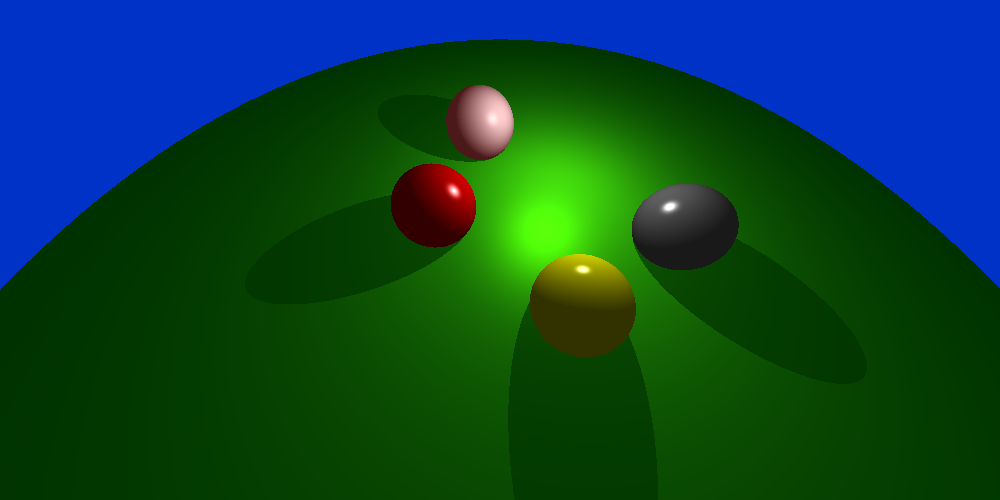
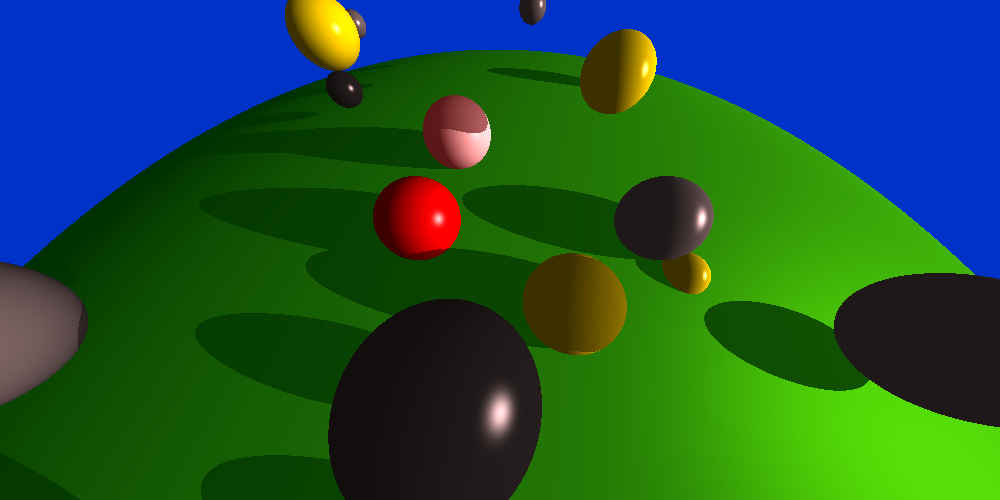
Added point light gizmo Random spheres generator Lights got to be constructed in main.cpp since now

diff --git a/IK_Raytracer/IK_Raytracer/IK_Raytracer.cpp b/IK_Raytracer/IK_Raytracer/IK_Raytracer.cpp
@@ -27,7 +27,8 @@ int main()
 
     // Camera and rays settings
     float fov = 90.0f;
-    Camera* cam = new Camera(vec3(3, 10, -5), vec3(0, 0, -1), vec3(0, -1, 0), fov, float(scrWidth)/float(scrHeight));
+    vec3 lookAtPoint(0, -1, 0);
+    Camera* cam = new Camera(vec3(3, 10, -5), lookAtPoint, vec3(0, -1, 0), fov, float(scrWidth)/float(scrHeight));
 
     float pixelWidth = 2.0f / float(scrWidth);
     float pixelHeight = 2.0f / float(scrHeight);
@@ -39,14 +40,28 @@ int main()
     std::cin >> isAntyalia;
 
     // Material prefabs
-    Material* blackMat = new Material(vec3(6, 6, 6), vec3(20, 20, 20), vec3(255, 255, 255), 32);
-    Material* grassMat = new Material(vec3(0, 20, 0), vec3(100, 255, 20), vec3(40, 100, 0), 8);
-    Material* goldMat = new Material(vec3(20, 20, 0), vec3(255, 255, 0), vec3(255, 255, 255), 64);
-    Material* redMat = new Material(vec3(20, 0, 0), vec3(255, 0, 0), vec3(255, 255, 255), 32);
-    Material* silverMat = new Material(vec3(10, 10, 10), vec3(100, 100, 100), vec3(255, 255, 255), 32);
-    Material* whiteMat = new Material(vec3(30, 10, 10), vec3(255, 255, 255), vec3(50, 50, 50), 16);
-    Material* transMat = new Material(vec3(255, 255, 255), vec3(255, 255, 255), vec3(255, 255, 255), 1, true);
+    std::vector<Material*> materials;
 
+    Material* blackMat = new Material(vec3(6, 6, 6), vec3(20, 20, 20), vec3(255, 255, 255), 32);
+    materials.push_back(blackMat);
+
+    Material* grassMat = new Material(vec3(0, 20, 0), vec3(100, 255, 20), vec3(40, 100, 0), 8);
+    materials.push_back(grassMat);
+
+    Material* goldMat = new Material(vec3(20, 20, 0), vec3(255, 255, 0), vec3(255, 255, 255), 64);
+    materials.push_back(goldMat);
+
+    Material* redMat = new Material(vec3(20, 0, 0), vec3(255, 0, 0), vec3(255, 255, 255), 32);
+    materials.push_back(redMat);
+
+    Material* silverMat = new Material(vec3(10, 10, 10), vec3(100, 100, 100), vec3(255, 255, 255), 32);
+    materials.push_back(silverMat);
+
+    Material* whiteMat = new Material(vec3(30, 10, 10), vec3(255, 255, 255), vec3(50, 50, 50), 16);
+    materials.push_back(whiteMat);
+
+    Material* transMat = new Material(vec3(255, 255, 255), vec3(255, 255, 255), vec3(255, 255, 255), 1, true);
+    //materials.push_back(transMat);
 
     // Vector of hitable objects
     std::vector<Hitable*> hitables;
@@ -56,7 +71,7 @@ int main()
     std::vector<vec3> vertices, indices;
 
     //// Assigning vertices and indices;
-    parser.ParseFile("coneBlend2.obj", vertices, indices);
+    //parser.ParseFile("coneBlend2.obj", vertices, indices);
 
     //// Mesh made from parsed obj file
 
@@ -88,6 +103,31 @@ int main()
     Hitable* sphere4 = new Sphere(vec3(6, 0, 5), 2, silverMat);
     hitables.push_back(sphere4);
 
+
+    int size = 3;
+    float maxF = 20;
+    float minF = -20;
+    // random spheres generator
+    for (int i = -size; i < size; i++)
+    {
+        for (int j = -size; j < size; j++)
+        {
+            float step = ((float(rand()) / float(RAND_MAX)) *            (maxF - minF)) + minF;
+            float step2 = ((float(rand()) / float(RAND_MAX)) *           (maxF - minF)) + minF;
+            float step3 = ((float(rand()) / float(RAND_MAX)) *           (maxF - minF)) + minF;
+            float randomPosition = ((float(rand()) / float(RAND_MAX)) *  (maxF - minF)) + minF;
+            float randomPosition2 = ((float(rand()) / float(RAND_MAX)) * (maxF - minF)) + minF;
+            float randomPosition3 = ((float(rand()) / float(RAND_MAX)) * (maxF - minF)) + minF;
+
+            float randomRadius = 1 + static_cast <float> (rand()) / (static_cast <float> (RAND_MAX / (2 - 1)));
+            int randomMat = rand() % materials.size();
+            hitables.push_back(new Sphere(vec3((step + randomPosition),
+                                               (step2 + randomPosition2),
+                                               (step3 + randomPosition3)),
+                                                randomRadius, materials.at(randomMat)));
+        }
+    }
+
     std::cout << hitables.size() << std::endl;
 
     //Hitable* plane = new Plane(vec3(0, 5, 0), vec3(5, 0, 0), vec3(0, 5, 0), new Material(vec3(0, 0, 0), vec3(0.1, 154, 23), vec3(255, 255, 255), 256));
@@ -99,9 +139,15 @@ int main()
     std::vector<PointLight> pointLights;
     std::vector<DirectionalLight> directionalLights;
 
-    pointLights.push_back(PointLight(vec3(1.0, 1.0, 1.0), vec3(1.0, 1.0, 1.0), vec3(0, 5, 5), 0.5f, 20.0f, 2.0f, 100.0f, &hitables));
-    pointLights.push_back(PointLight(vec3(1.0, 1.0, 1.0), vec3(1.0, 1.0, 1.0), vec3(0, 1, 5), 0.5f, 20.0f, 2.0f, 100.0f, &hitables));
-    //directionalLights.push_back(DirectionalLight(vec3(1, 0.8, 0.8), vec3(1, 0.8, 0.8), vec3(-3, -1, -1), 1.0f));
+    //pointLights.push_back(PointLight(vec3(1.0, 1.0, 1.0), vec3(1.0, 1.0, 1.0), vec3(0, 5, 5), 0.5f, 20.0f, 2.0f, 100.0f));
+    //pointLights.push_back(PointLight(vec3(0.3, 1.0, 1.0), vec3(1.0, 1.0, 1.0), vec3(0, 5, -5), 0.5f, 20.0f, 2.0f, 100.0f));
+    //pointLights.push_back(PointLight(vec3(1.0, 1.0, 1.0), vec3(1.0, 1.0, 1.0), vec3(0, 1, 5), 0.5f, 20.0f, 2.0f, 100.0f, &hitables));
+    directionalLights.push_back(DirectionalLight(vec3(1, 0.8, 0.8), vec3(1, 0.8, 0.8), vec3(-3, -1, -1), 1.0f));
+
+    for (int i = 0; i < pointLights.size(); i++)
+    {
+        hitables.push_back(new Sphere(pointLights.at(i).location, 0.2, new Material(pointLights.at(i).diffuseColor * 255, vec3(255, 255, 255), 1, true)));
+    }
     
     // pass hitables to world
     Hitable* world = new HitableList(hitables);

diff --git a/IK_Raytracer/IK_Raytracer/LightIntensity.cpp b/IK_Raytracer/IK_Raytracer/LightIntensity.cpp
@@ -234,11 +234,11 @@ LightIntensity LightIntensity::GetColorFromRay(const Ray& r, Hitable* world, vec
 			Ray shadowRay(rec.p, unit_vector(pointLights.at(i).location -rec.p));
 
 			// shadow
-			if (world->hit(shadowRay, 0.0001, 10000000, shadowRec) && shadowRec.materialPtr->isTransparent == false)
+			if (world->hit(shadowRay, 0.0001, 100000, shadowRec) && shadowRec.materialPtr->isTransparent == false)
 			{
 
 				ambientColor +=  pointLights.at(i).ambientColor;
-				specularColor += pointLights.at(i).getSpecular(rec, -cameraPosition, rec.materialPtr->shininess) * shadowIntensity;
+				//specularColor += pointLights.at(i).getSpecular(rec, -cameraPosition, rec.materialPtr->shininess) * shadowIntensity;
 				diffuseColor +=  pointLights.at(i).getDiffuse(rec) * shadowIntensity;
 				
 			}
@@ -257,10 +257,10 @@ LightIntensity LightIntensity::GetColorFromRay(const Ray& r, Hitable* world, vec
 			Ray shadowRay(rec.p, -directionalLights.at(i).direction);
 
 			// shadow
-			if (world->hit(shadowRay, 0.0001, 10000000, shadowRec))
+			if (world->hit(shadowRay, 0.0001, 100000, shadowRec))
 			{
 				ambientColor += directionalLights.at(i).ambientColor;
-				specularColor += directionalLights.at(i).getSpecular(rec, -cameraPosition, rec.materialPtr->shininess) * shadowIntensity;
+				//specularColor += directionalLights.at(i).getSpecular(rec, -cameraPosition, rec.materialPtr->shininess) * shadowIntensity;
 				diffuseColor += directionalLights.at(i).getDiffuse(rec) * shadowIntensity;
 			}
 			// no shadow

diff --git a/IK_Raytracer/IK_Raytracer/Material.cpp b/IK_Raytracer/IK_Raytracer/Material.cpp
@@ -1,5 +1,7 @@
 #include "Material.h"
 
 Material::Material() : mAmbient(vec3(100, 100, 100)), mDiffuse(vec3(100, 100, 100)), mSpecular(vec3(100, 100, 100)), shininess(32) {}
+Material::Material(vec3 diffuse, vec3 specular, float shine) : mAmbient(diffuse * 0.2), mDiffuse(diffuse), mSpecular(specular), shininess(shine){}
+Material::Material(vec3 diffuse, vec3 specular, float shine, bool isTrans) : mAmbient(diffuse * 0.2), mDiffuse(diffuse), mSpecular(specular), shininess(shine), isTransparent(isTrans){}
 Material::Material(vec3 ambient, vec3 diffuse, vec3 specular, float shine) : mAmbient(ambient), mDiffuse(diffuse), mSpecular(specular), shininess(shine) {}
 Material::Material(vec3 ambient, vec3 diffuse, vec3 specular, float shine, bool isTrans) : mAmbient(ambient), mDiffuse(diffuse), mSpecular(specular), shininess(shine), isTransparent(isTrans) {}

diff --git a/IK_Raytracer/IK_Raytracer/PointLight.cpp b/IK_Raytracer/IK_Raytracer/PointLight.cpp
@@ -1,9 +1,9 @@
 #include "PointLight.h"
 
-PointLight::PointLight(vec3 diffColor, vec3 specColor, vec3 loc, float atten, float linearAtten, float quatAtten, float intense, std::vector<Hitable*>* hitables) :
+PointLight::PointLight(vec3 diffColor, vec3 specColor, vec3 loc, float atten, float linearAtten, float quatAtten, float intense) :
 			ambientColor(diffColor * 2.5), diffuseColor(diffColor), specularColor(specColor), location(loc), attenuation(atten), linearAttenuation(linearAtten), quatAttenuation(quatAtten), intensity(intense)
 {
-	hitables->push_back(new Sphere(loc, 0.3, new Material(vec3(255, 255, 255), vec3(255, 255, 255), vec3(255, 255, 255), 1, true)));
+	//hitList->push_back(new Sphere(loc, 0.3, new Material(vec3(255, 255, 255), vec3(255, 255, 255), vec3(255, 255, 255), 1, true)));
 }
 
 vec3 PointLight::getDiffuse(hitRecord& rec)

diff --git a/IK_Raytracer/IK_Raytracer/PointLight.h b/IK_Raytracer/IK_Raytracer/PointLight.h
@@ -1,6 +1,6 @@
 #pragma once
 #include "Light.h"
-#include "Sphere.h"
+//#include "Sphere.h"
 #include <vector>
 
 class PointLight : public Light
@@ -16,7 +16,7 @@ public:
 	float linearAttenuation;
 	float quatAttenuation;
 
-	PointLight(vec3 diffColor, vec3 specColor, vec3 loc, float atten, float linearAtten, float quatAtten, float intense, std::vector<Hitable*>* hitables);
+	PointLight(vec3 diffColor, vec3 specColor, vec3 loc, float atten, float linearAtten, float quatAtten, float intense);
 	vec3 getDiffuse(hitRecord& rec);
 	vec3 getSpecular(hitRecord& rec, vec3 cameraPos, float shininess);
 };

diff --git a/IK_Raytracer/IK_Raytracer/Material.h b/IK_Raytracer/IK_Raytracer/Material.h
@@ -10,6 +10,8 @@ public:
 	bool isTransparent = false;
 
 	Material();
+	Material(vec3 diffuse, vec3 specular, float shine);
+	Material(vec3 diffuse, vec3 specular, float shine, bool isTrans);
 	Material(vec3 ambient, vec3 diffuse, vec3 specular, float shine);
 	Material(vec3 ambient, vec3 diffuse, vec3 specular, float shine, bool isTrans);
 };
